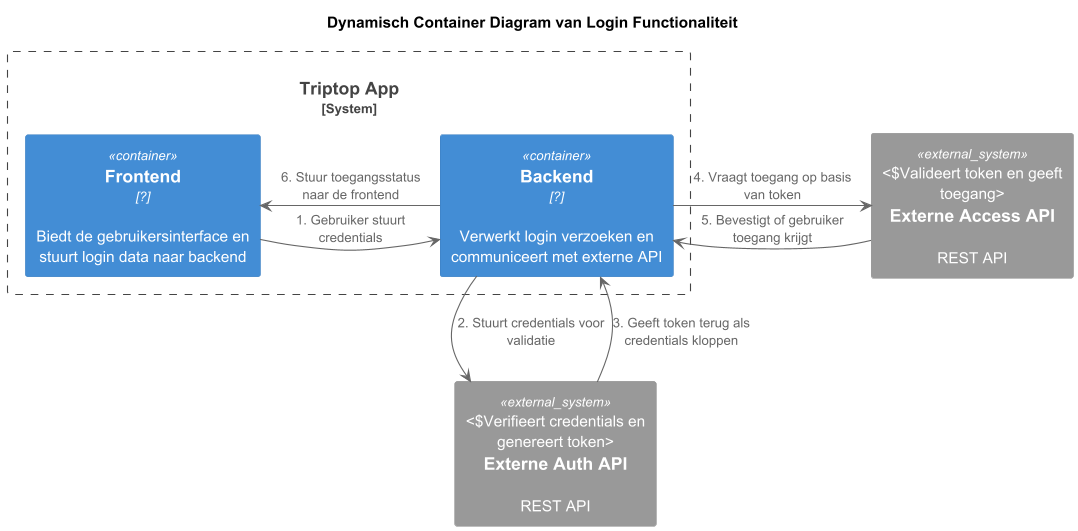
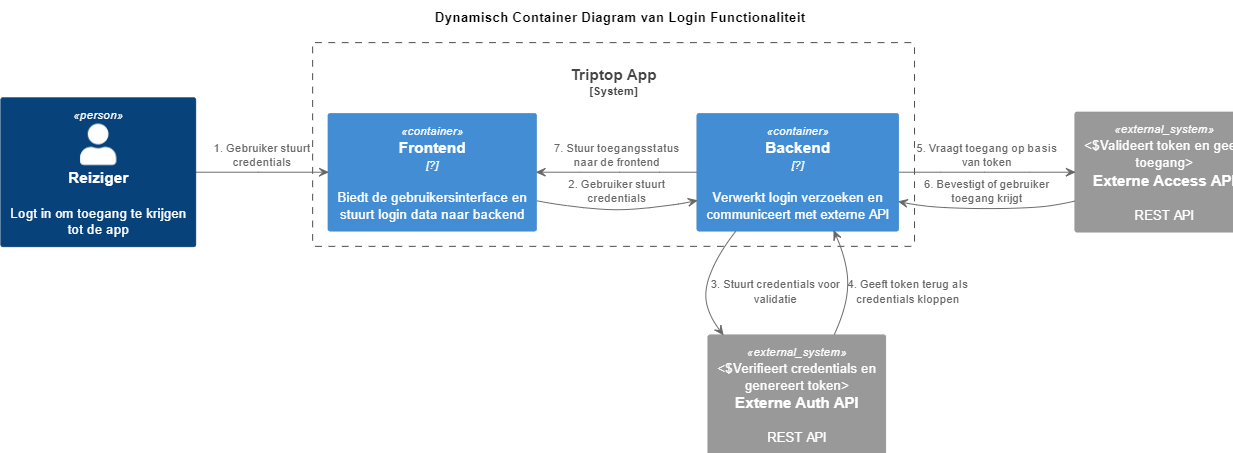
Actors bij dynamisch

diff --git a/feedback/feedback-week1.md b/feedback/feedback-week1.md
@@ -1,5 +1,5 @@
 - [x] context diagram, 2 losse boxes
-- [ ] actors bij container hoeft niet perse bij component
+- [x] actors bij container hoeft niet perse bij component
 - [x] status moet naar boven bij de ADR
 - [ ] consistentie
 - [ ] meer functioneel kijken bij ADR's
